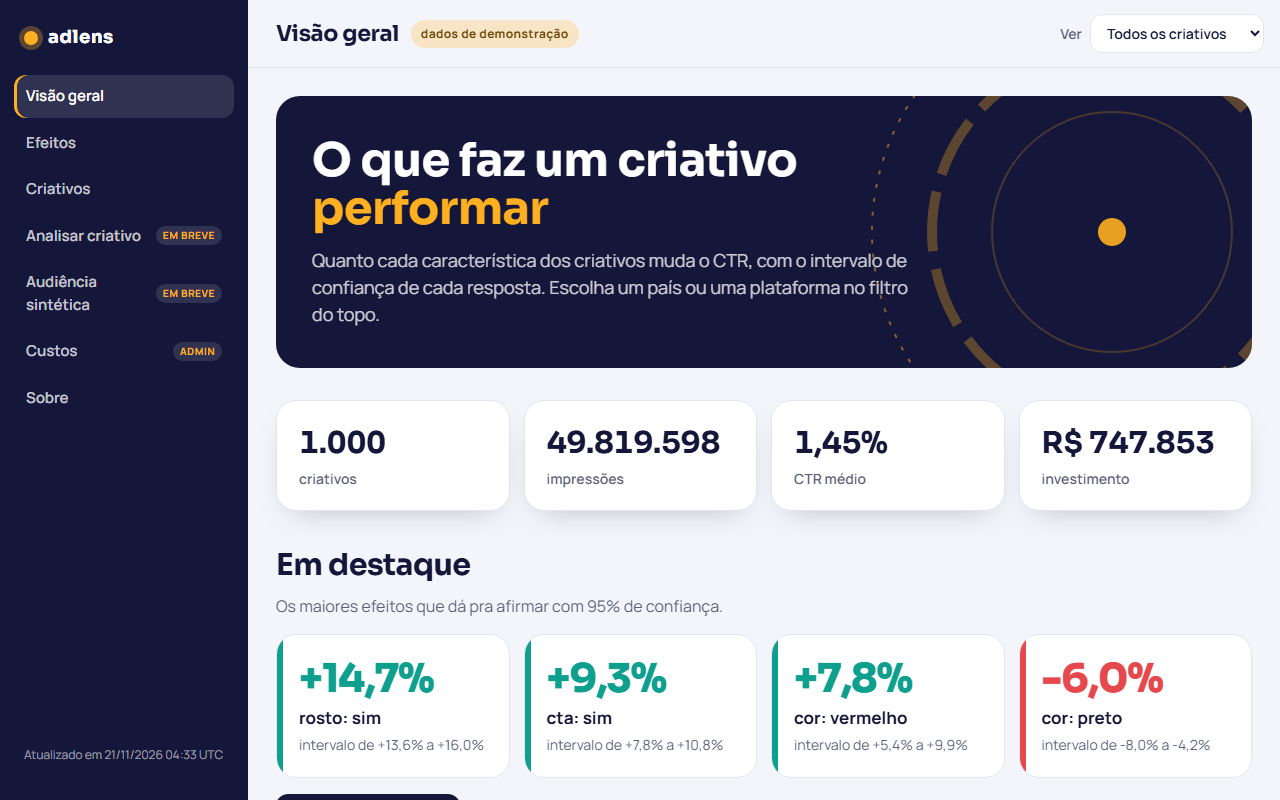
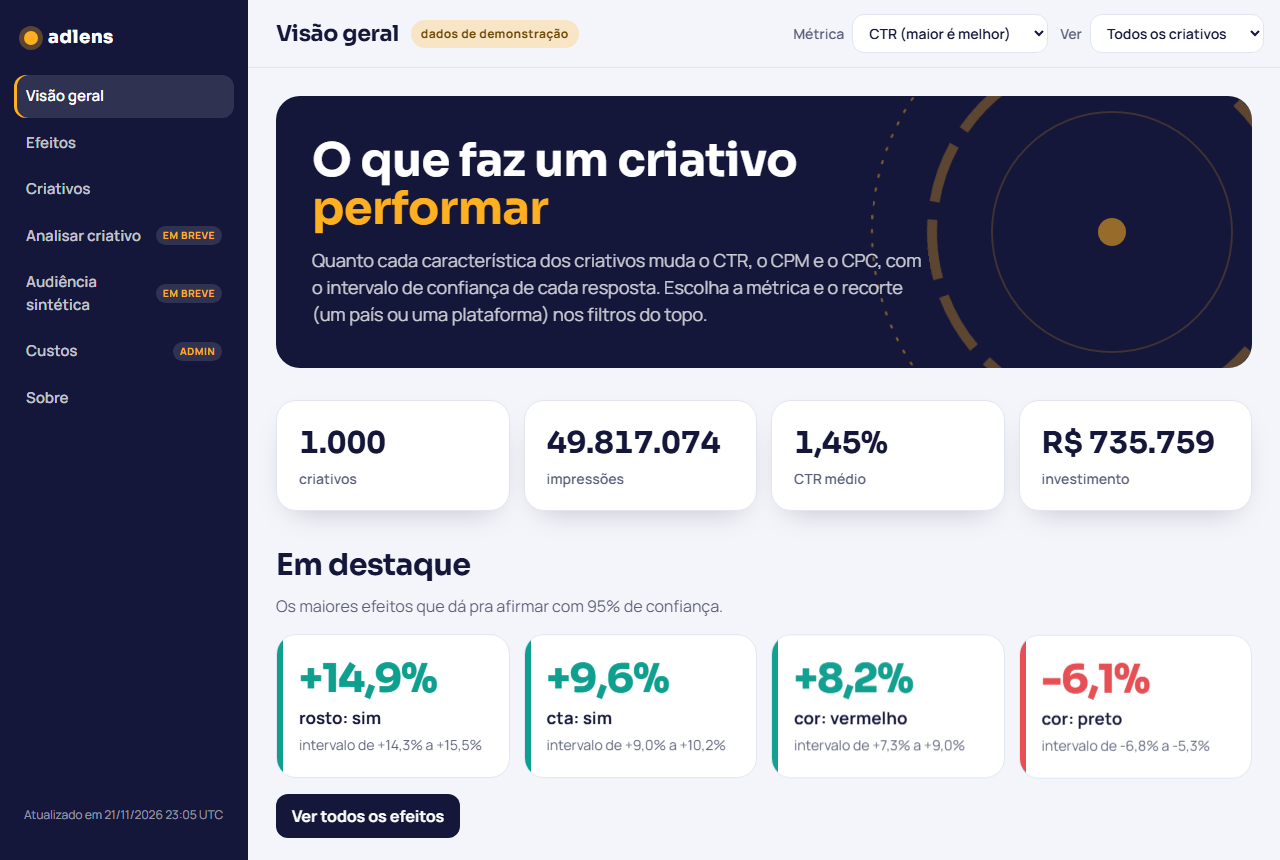
feat: case do adlens atualizado (regressão, CPM e CPC, 226 testes)

diff --git a/projetos/adlens.html b/projetos/adlens.html
@@ -4,7 +4,7 @@
 <meta charset="utf-8">
 <meta name="viewport" content="width=device-width, initial-scale=1">
 <title>adlens, creative intelligence with CI/CD · Aryane Muniz</title>
-<meta name="description" content="Which creative features drive CTR, with the confidence of each answer.">
+<meta name="description" content="Which creative features drive CTR, CPM and CPC, with the confidence of each answer.">
 <link rel="preconnect" href="https://fonts.googleapis.com">
 <link href="https://fonts.googleapis.com/css2?family=Bricolage+Grotesque:opsz,wght@12..96,500;12..96,700;12..96,800&family=Inter:wght@400;500;600;700&display=swap" rel="stylesheet">
 <link rel="stylesheet" href="../assets/site.css">
@@ -34,7 +34,7 @@
     <a class="crumb" href="../projetos.html">← <span lang="en">All projects</span><span lang="pt">Todos os projetos</span></a>
     <div class="eyebrow" style="margin-top:18px">01 · <span lang="en">Data &amp; AI products</span><span lang="pt">Produtos de dados e IA</span></div>
     <h1><span lang="en">adlens, creative intelligence with CI/CD</span><span lang="pt">adlens, inteligência de criativos com CI/CD</span></h1>
-    <p class="lead"><span lang="en">Which creative features drive CTR, with the confidence of each answer.</span><span lang="pt">Quais características dos criativos puxam o CTR, com a confiança de cada resposta.</span></p>
+    <p class="lead"><span lang="en">Which creative features drive CTR, CPM and CPC, with the confidence of each answer.</span><span lang="pt">Quais características dos criativos puxam o CTR, o CPM e o CPC, com a confiança de cada resposta.</span></p>
   </div>
 </div>
 
@@ -44,20 +44,20 @@
       <div class="main">
         <div class="shot reveal"><span lang="en">Screenshot coming soon</span><span lang="pt">Print em breve</span><img src="../img/adlens-hub.png" alt="adlens, inteligência de criativos com CI/CD" onerror="this.remove()"></div>
         <div class="reveal"><h2><span lang="en">The problem</span><span lang="pt">O problema</span></h2><p><span lang="en">Media teams keep asking which creative features drive CTR, and paid tools send the creatives outside the company.</span><span lang="pt">Os times de mídia sempre perguntam quais características dos criativos puxam o CTR, e as ferramentas pagas mandam os criativos pra fora da empresa.</span></p></div>
-        <div class="reveal"><h2><span lang="en">What I built</span><span lang="pt">O que eu fiz</span></h2><p><span lang="en">An open-source Python tool that tags each creative (face, product, CTA, color, format) and measures how much each feature changes CTR, with 95% confidence intervals. Validated on synthetic data with planted effects, it ships a data contract ready for BigQuery, an MCP server for AI agents and a dashboard hub published automatically to GitHub Pages.</span><span lang="pt">Uma ferramenta em Python, de código aberto, que etiqueta cada criativo (rosto, produto, CTA, cor, formato) e mede quanto cada característica muda o CTR, com intervalo de 95%. Validada com dado sintético e efeitos plantados, entrega um contrato de dados pronto pro BigQuery, um servidor MCP para agentes de IA e um hub publicado sozinho no GitHub Pages.</span></p></div>
+        <div class="reveal"><h2><span lang="en">What I built</span><span lang="pt">O que eu fiz</span></h2><p><span lang="en">An open-source Python tool that tags each creative (face, product, CTA, color, format) and measures how much each feature changes CTR, CPM and CPC, isolating each effect with a regression that controls for country and corrects for multiple testing. Validated on synthetic data with planted effects and deliberate statistical traps, it ships a data contract ready for BigQuery, a vision-AI tagger, an MCP server with six tools for AI agents and a dashboard hub published automatically to GitHub Pages.</span><span lang="pt">Uma ferramenta em Python, de código aberto, que etiqueta cada criativo (rosto, produto, CTA, cor, formato) e mede quanto cada característica muda o CTR, o CPM e o CPC, isolando cada efeito com uma regressão que controla o país e corrige para muitos testes. Validada com dado sintético, efeitos plantados e armadilhas estatísticas montadas de propósito, entrega um contrato de dados pronto pro BigQuery, um etiquetador com IA de visão, um servidor MCP com seis ferramentas para agentes de IA e um hub publicado sozinho no GitHub Pages.</span></p></div>
         <div class="reveal"><h2><span lang="en">How it works</span><span lang="pt">Como funciona</span></h2>
           <ol class="steps">
             <li><span><span lang="en">Generates creatives and daily media with planted effects (the answer key).</span><span lang="pt">Gera criativos e mídia diária com efeitos plantados (o gabarito).</span></span></li>
             <li><span><span lang="en">A tagger reads each creative: face, product, CTA, color and format.</span><span lang="pt">Um etiquetador lê cada criativo: rosto, produto, CTA, cor e formato.</span></span></li>
-            <li><span><span lang="en">Measures the lift of each feature on CTR, with a bootstrap 95% interval.</span><span lang="pt">Mede o lift de cada característica no CTR, com intervalo de 95% por bootstrap.</span></span></li>
+            <li><span><span lang="en">Isolates the effect of each feature on CTR, CPM and CPC with a regression (country as a control, one vote per creative, Benjamini-Hochberg correction), with 95% intervals and filters by country, platform and period.</span><span lang="pt">Isola o efeito de cada característica no CTR, no CPM e no CPC com uma regressão (país como controle, um voto por criativo, correção de Benjamini-Hochberg), com intervalo de 95% e filtros por país, plataforma e período.</span></span></li>
             <li><span><span lang="en">Exports two tables in a data contract ready for BigQuery.</span><span lang="pt">Exporta duas tabelas num contrato de dados pronto pro BigQuery.</span></span></li>
             <li><span><span lang="en">Publishes a hub with tabs to GitHub Pages on every merge, and answers AI agents through MCP.</span><span lang="pt">Publica um hub com abas no GitHub Pages a cada merge e responde agentes de IA via MCP.</span></span></li>
           </ol></div>
-        <div class="reveal"><h2><span lang="en">Engineering</span><span lang="pt">Engenharia</span></h2><p><span lang="en">116 automated tests, CI on every pull request, protected main branch and an audit against known statistical traps.</span><span lang="pt">116 testes automáticos, CI em todo pull request, main protegida e uma auditoria contra armadilhas estatísticas conhecidas.</span></p></div>
+        <div class="reveal"><h2><span lang="en">Engineering</span><span lang="pt">Engenharia</span></h2><p><span lang="en">226 automated tests across 28 pull requests, CI on every pull request and a protected main branch. Four simulated traps (confounding, Simpson's paradox, a dominant creative and false alarms) fool the simple analysis and are passed by the regression. Tested end to end as a user, on desktop and mobile.</span><span lang="pt">226 testes automáticos em 28 pull requests, CI em todo pull request e main protegida. Quatro armadilhas simuladas (confusão, paradoxo de Simpson, peça dominante e alarme falso) enganam a análise simples e são resolvidas pela regressão. Testado de ponta a ponta como usuária, no computador e no celular.</span></p></div>
       </div>
       <aside class="side">
         <div class="box"><h3><span lang="en">Status</span><span lang="pt">Status</span></h3><div class="status"><span lang="en">Live · updates itself on every merge</span><span lang="pt">No ar · se atualiza a cada merge</span></div></div>
-        <div class="box"><h3><span lang="en">Stack</span><span lang="pt">Tecnologias</span></h3><div class="tags"><span>Python</span><span>Statistics</span><span>DuckDB</span><span>MCP</span><span>GitHub Actions</span><span>CI/CD</span></div></div>
+        <div class="box"><h3><span lang="en">Stack</span><span lang="pt">Tecnologias</span></h3><div class="tags"><span>Python</span><span>Statistics</span><span>Regression</span><span>DuckDB</span><span>MCP</span><span>Claude API</span><span>GitHub Actions</span><span>CI/CD</span></div></div>
         <div class="box"><h3><span lang="en">Links</span><span lang="pt">Links</span></h3><div class="cta" style="margin-top:0">
             <a class="btn primary" href="https://aryanemuniz.github.io/adlens/" target="_blank" rel="noopener"><span lang="en">See the hub live</span><span lang="pt">Ver o hub ao vivo</span></a>
             <a class="btn ghost" href="https://github.com/AryaneMuniz/adlens" target="_blank" rel="noopener"><span lang="en">Code</span><span lang="pt">Código</span></a>

diff --git a/index.html b/index.html
@@ -99,9 +99,9 @@
             <div><dt><span lang="en">Problem</span><span lang="pt">Problema</span></dt>
               <dd><span lang="en">Media teams keep asking which creative features drive CTR, and paid tools send the creatives outside the company.</span><span lang="pt">Os times de mídia sempre perguntam quais características dos criativos puxam o CTR, e as ferramentas pagas mandam os criativos pra fora da empresa.</span></dd></div>
             <div><dt><span lang="en">What I built</span><span lang="pt">O que eu fiz</span></dt>
-              <dd><span lang="en">An open-source Python tool that tags each creative (face, product, CTA, color, format) and measures how much each feature changes CTR, with 95% confidence intervals. Validated on synthetic data with planted effects, it ships a data contract ready for BigQuery, an MCP server for AI agents and a dashboard hub published automatically to GitHub Pages.</span><span lang="pt">Uma ferramenta em Python, de código aberto, que etiqueta cada criativo (rosto, produto, CTA, cor, formato) e mede quanto cada característica muda o CTR, com intervalo de 95%. Validada com dado sintético e efeitos plantados, entrega um contrato de dados pronto pro BigQuery, um servidor MCP para agentes de IA e um hub publicado sozinho no GitHub Pages.</span></dd></div>
+              <dd><span lang="en">An open-source Python tool that tags each creative (face, product, CTA, color, format) and measures how much each feature changes CTR, CPM and CPC, isolating each effect with a regression that controls for country and corrects for multiple testing. Validated on synthetic data with planted effects and deliberate statistical traps, it ships a data contract ready for BigQuery, a vision-AI tagger, an MCP server with six tools for AI agents and a dashboard hub published automatically to GitHub Pages.</span><span lang="pt">Uma ferramenta em Python, de código aberto, que etiqueta cada criativo (rosto, produto, CTA, cor, formato) e mede quanto cada característica muda o CTR, o CPM e o CPC, isolando cada efeito com uma regressão que controla o país e corrige para muitos testes. Validada com dado sintético, efeitos plantados e armadilhas estatísticas montadas de propósito, entrega um contrato de dados pronto pro BigQuery, um etiquetador com IA de visão, um servidor MCP com seis ferramentas para agentes de IA e um hub publicado sozinho no GitHub Pages.</span></dd></div>
           </dl>
-          <div class="tags"><span>Python</span><span>Statistics</span><span>DuckDB</span><span>MCP</span><span>GitHub Actions</span><span>CI/CD</span></div>
+          <div class="tags"><span>Python</span><span>Statistics</span><span>Regression</span><span>DuckDB</span><span>MCP</span><span>Claude API</span><span>GitHub Actions</span><span>CI/CD</span></div>
           <div class="more">
             <a class="btn primary" href="projetos/adlens.html"><span lang="en">See more details</span><span lang="pt">Ver mais detalhes</span></a>
             <a class="btn ghost" href="https://github.com/AryaneMuniz/adlens" target="_blank" rel="noopener"><span lang="en">Code</span><span lang="pt">Código</span></a>

diff --git a/projetos.html b/projetos.html
@@ -61,8 +61,8 @@
           <div class="pbody">
             <div class="status"><span lang="en">Live · updates itself on every merge</span><span lang="pt">No ar · se atualiza a cada merge</span></div>
             <h3><span lang="en">adlens, creative intelligence with CI/CD</span><span lang="pt">adlens, inteligência de criativos com CI/CD</span></h3>
-            <p><span lang="en">Which creative features drive CTR, with the confidence of each answer.</span><span lang="pt">Quais características dos criativos puxam o CTR, com a confiança de cada resposta.</span></p>
-            <div class="tags"><span>Python</span><span>Statistics</span><span>DuckDB</span><span>MCP</span><span>GitHub Actions</span><span>CI/CD</span></div>
+            <p><span lang="en">Which creative features drive CTR, CPM and CPC, with the confidence of each answer.</span><span lang="pt">Quais características dos criativos puxam o CTR, o CPM e o CPC, com a confiança de cada resposta.</span></p>
+            <div class="tags"><span>Python</span><span>Statistics</span><span>Regression</span><span>DuckDB</span><span>MCP</span><span>Claude API</span><span>GitHub Actions</span><span>CI/CD</span></div>
             <a class="btn primary" href="projetos/adlens.html"><span lang="en">See more details</span><span lang="pt">Ver mais detalhes</span></a>
           </div>
         </article>
